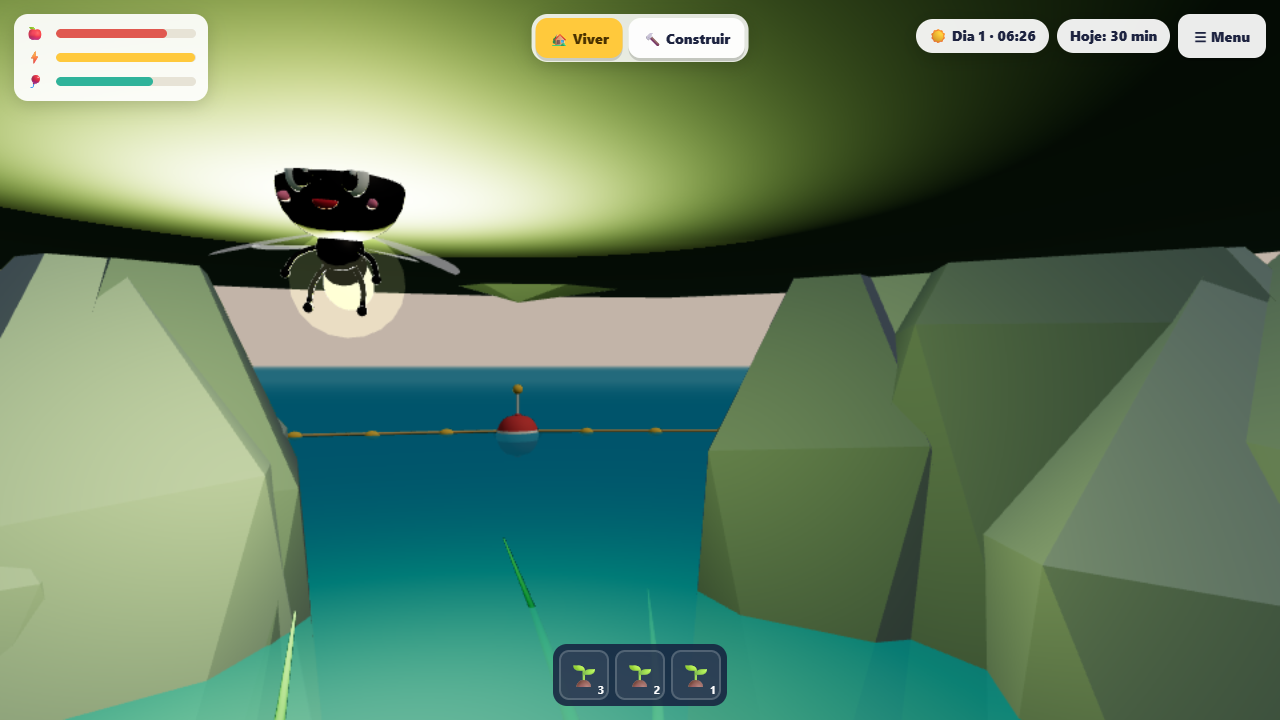
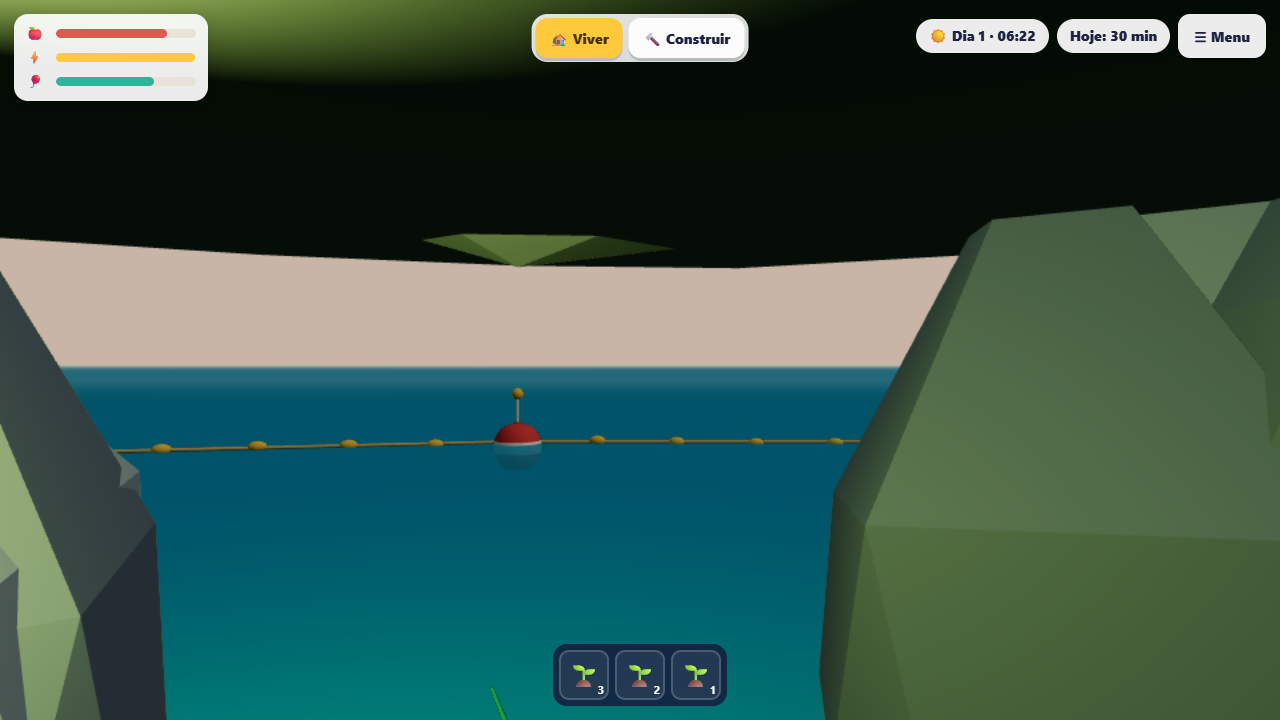
fix(arquipelago): enquadra a câmera sob o teto da caverna

diff --git a/packages/arquipelago/tests/camera-sob-teto.test.ts b/packages/arquipelago/tests/camera-sob-teto.test.ts
@@ -1,0 +1,78 @@
+import { beforeAll, describe, expect, test } from 'bun:test'
+import { createRequire } from 'node:module'
+import type { RapierContext } from '@react-three/rapier'
+import { FOLGA_DA_CAMERA, GRUA_DA_CAMERA, RAIO_DA_SONDA_DA_CAMERA } from '../src/mundo/medidas'
+import { desvioVerticalDaCamera } from '../src/sistemas/camera'
+
+const require = createRequire(import.meta.url)
+const R: RapierContext['rapier'] = require(
+  require.resolve('@dimforge/rapier3d-compat', { paths: [require.resolve('@react-three/rapier')] }),
+)
+beforeAll(async () => {
+  await R.init()
+})
+
+const escolher = (angulo: number, medir: (angulo: number) => number) =>
+  desvioVerticalDaCamera(
+    angulo,
+    -Math.atan2(FOLGA_DA_CAMERA, 9),
+    medir,
+    GRUA_DA_CAMERA.subidas,
+    GRUA_DA_CAMERA.inclinacaoMaxima,
+    GRUA_DA_CAMERA.ganhoMinimo,
+  )
+
+describe('enquadramento sob um teto baixo', () => {
+  test('a sonda real se afasta do teto quando começa tangenciando a face inferior', () => {
+    const world = new R.World({ x: 0, y: 0, z: 0 })
+    try {
+      world.createCollider(R.ColliderDesc.cuboid(3.5, 0.475, 3.5).setTranslation(0, 2.175, 0))
+      world.step()
+      const esfera = new R.Ball(RAIO_DA_SONDA_DA_CAMERA)
+      const medir = (angulo: number) => {
+        const hit = world.castShape(
+          { x: 0, y: 1.25, z: 0 },
+          { x: 0, y: 0, z: 0, w: 1 },
+          { x: 0, y: Math.sin(angulo), z: Math.cos(angulo) },
+          esfera,
+          0,
+          9 + FOLGA_DA_CAMERA,
+          false,
+        )
+        return hit ? hit.time_of_impact - FOLGA_DA_CAMERA : 9
+      }
+      expect(medir(0.6)).toBeLessThan(0.1)
+      let ajuste = 0
+      for (let i = 0; i < 150; i++)
+        ajuste += (escolher(0.6, medir) - ajuste) * (1 - Math.exp(-6 / 60))
+      expect(medir(0.6 + ajuste)).toBeGreaterThan(2)
+    } finally {
+      world.free()
+    }
+  })
+  test('passa abaixo do teto em vez de comprimir a câmera no corpo', () => {
+    // O alvo e a esfera somam a altura do teto do Recife. Descer afasta a sonda do contato.
+    const espacoVertical = 1.7 - 1.25 - RAIO_DA_SONDA_DA_CAMERA
+    const medir = (angulo: number) =>
+      angulo < 0 ? 9 : Math.min(9, espacoVertical / Math.sin(angulo) - FOLGA_DA_CAMERA)
+    const pedido = 0.6
+    expect(medir(pedido)).toBeLessThan(0.1)
+    const corrigido = pedido + escolher(pedido, medir)
+    expect(corrigido).toBeCloseTo(-Math.atan2(FOLGA_DA_CAMERA, 9))
+    expect(medir(corrigido)).toBe(9)
+  })
+
+  test('uma parede baixa continua pedindo subida quando ali há mais espaço', () => {
+    const pedido = 0.3
+    const medir = (angulo: number) => (angulo >= 0.7 ? 9 : 2)
+    expect(escolher(pedido, medir)).toBeCloseTo(0.45)
+  })
+
+  test('sem bloqueio preserva a inclinação escolhida pela pessoa', () => {
+    expect(escolher(0.6, () => 9)).toBe(0)
+  })
+
+  test('diferença menor que a folga de ganho não causa troca de ângulo', () => {
+    expect(escolher(0.6, (angulo) => (angulo < 0 ? 2.4 : 2))).toBe(0)
+  })
+})

diff --git a/packages/arquipelago/src/personagem/camera.tsx b/packages/arquipelago/src/personagem/camera.tsx
@@ -21,6 +21,7 @@ import {
   VOLTA_DA_CAMERA,
 } from '../mundo/medidas'
 import {
+  desvioVerticalDaCamera,
   distanciaDaCamera,
   giroMaisCurto,
   limitarPosicaoDaCamera,
@@ -488,7 +489,7 @@ export function Camera() {
     }
     // Tapada de perto (o tronco atrás, no deque): primeiro a câmera gira para o lado livre, como
     // nos jogos de terceira pessoa (o controle gira junto, a frente continua sendo a da tela);
-    // sem lado livre, sobe por cima do ombro. Os dois andam aos poucos, e o raio final é o da
+    // sem lado livre, compara passar por baixo com subir por cima do ombro. A mudança é suave e o raio final é o da
     // posição em que a câmera está de verdade.
     let alvoDaSubida = 0
     const tapada = !dentro && lancar(inclinacao) < dist * GRUA_DA_CAMERA.tapada
@@ -508,14 +509,15 @@ export function Camera() {
       }
     }
     if (tapada && !girou) {
-      let melhor = lancar(inclinacao)
-      for (const extra of GRUA_DA_CAMERA.subidas) {
-        const livreAqui = lancar(Math.min(inclinacao + extra, GRUA_DA_CAMERA.inclinacaoMaxima))
-        if (livreAqui > melhor + GRUA_DA_CAMERA.ganhoMinimo) {
-          melhor = livreAqui
-          alvoDaSubida = extra
-        }
-      }
+      alvoDaSubida = desvioVerticalDaCamera(
+        inclinacao,
+        // A mesma folga da sonda abaixo do alvo: evita tangenciar o teto no limite do float.
+        -Math.atan2(FOLGA_DA_CAMERA, dist),
+        lancar,
+        GRUA_DA_CAMERA.subidas,
+        GRUA_DA_CAMERA.inclinacaoMaxima,
+        GRUA_DA_CAMERA.ganhoMinimo,
+      )
     }
     subida.current += (alvoDaSubida - subida.current) * k
     inclinacao = Math.min(

diff --git a/packages/arquipelago/src/sistemas/camera.ts b/packages/arquipelago/src/sistemas/camera.ts
@@ -44,6 +44,37 @@ export function pesoNoAlto(alturaAcimaDoChao: number, limite: number): number {
   return Math.max(0, Math.min(1, (alturaAcimaDoChao - limite * 0.6) / (limite * 0.4)))
 }
 
+/**
+ * Sem saída para os lados, compara passar por baixo com subir por cima do obstáculo.
+ * Só troca com ganho suficiente de espaço. O retorno é um desvio do ângulo escolhido pela pessoa;
+ * não altera a preferência e pode ser suavizado enquanto entra ou sai de um teto baixo.
+ */
+export function desvioVerticalDaCamera(
+  inclinacao: number,
+  inclinacaoBaixa: number,
+  medir: (angulo: number) => number,
+  subidas: readonly number[],
+  maxima: number,
+  ganhoMinimo: number,
+): number {
+  let melhor = medir(inclinacao)
+  let desvio = 0
+  const baixo = medir(inclinacaoBaixa)
+  if (baixo > melhor + ganhoMinimo) {
+    melhor = baixo
+    desvio = inclinacaoBaixa - inclinacao
+  }
+  for (const extra of subidas) {
+    const angulo = Math.min(inclinacao + extra, maxima)
+    const livre = medir(angulo)
+    if (livre > melhor + ganhoMinimo) {
+      melhor = livre
+      desvio = angulo - inclinacao
+    }
+  }
+  return desvio
+}
+
 /** A distância pedida pela pinça: abrir os dedos aproxima, fechar afasta (na mesma proporção). */
 export function zoomDaPinca(
   distanciaNoComeco: number,

diff --git a/packages/arquipelago/playground/verificar-recife-browser.ts b/packages/arquipelago/playground/verificar-recife-browser.ts
@@ -18,7 +18,7 @@ import { CORPO } from '../src/sistemas/corpo'
 import { CINTURA } from '../src/sistemas/modos/chao'
 
 type P = { x: number; y: number; z: number }
-type Desenho = { posicao: P; ilhasCompletas: number; modo: string; noChao: boolean }
+type Desenho = { posicao: P; camera: P; ilhasCompletas: number; modo: string; noChao: boolean }
 const port = process.env.ARQUIPELAGO_TEST_PORT
   ? Number(process.env.ARQUIPELAGO_TEST_PORT)
   : await new Promise<number>((resolve, reject) => {
@@ -209,7 +209,19 @@ try {
       await page.keyboard.up('KeyW')
     }
     console.log(`${tipo}: entrou na caverna nadando`, await ler())
+    // A câmera precisa mostrar o corpo por inteiro, sem ser empurrada para dentro da cabeça.
+    await page.waitForTimeout(2500)
     await page.screenshot({ path: path.join(prints, `recife-${tipo}-caverna.png`) })
+    const naCaverna = await ler()
+    if (
+      !naCaverna ||
+      Math.hypot(
+        naCaverna.camera.x - naCaverna.posicao.x,
+        naCaverna.camera.z - naCaverna.posicao.z,
+      ) < 2
+    ) {
+      throw new Error('A câmera entrou no avatar sob o teto da caverna')
+    }
 
     const casa = local('casa-mare')
     const mare = mundo(casa)

diff --git a/docs/qa/2026-10-29-recife/README.md b/docs/qa/2026-10-29-recife/README.md
@@ -34,12 +34,12 @@ Na raiz:
 bun run lint
 ```
 
-- Testes: 767 passaram, 1 pulado, nenhuma falha. O teste pulado requer Postgres local descartável.
+- Testes finais: 772 passaram, 1 pulado, nenhuma falha. O teste pulado requer Postgres local descartável.
   Inclui a lagoa nova, as faces coplanares, os colisores, a Maré e a liberação do GLB.
 - A primeira execução concorrente com o navegador teve dois estouros de 5 segundos em testes
   antigos do Bosque e da Vila. A repetição completa, sem o navegador concorrente, passou em 24,51 s.
 - Lint da raiz: terminou com código 0, sem erros; avisos e informações existentes no repositório.
-- Typecheck: código 0. Biome nos 13 arquivos de código desta tarefa: sem ajustes ou diagnósticos.
+- Typecheck final: código 0. Biome dos quatro arquivos de código da correção: sem diagnósticos.
 - O roteiro final do navegador terminou com código 0 nos dois tamanhos, incluindo sair e voltar.
 
 ## Prints
@@ -48,24 +48,24 @@ bun run lint
 | --- | --- | --- |
 | Chegada | [Ver](recife-computador-chegada.png) | [Ver](recife-celular-chegada.png) |
 | Cais | [Ver](recife-computador-cais.png) | [Ver](recife-celular-cais.png) |
-| Caverna | [Ver](recife-computador-caverna.png) | [Ver](recife-celular-caverna.png) |
+| Caverna corrigida | [Ver](recife-computador-caverna-corrigida.png) | [Ver](recife-celular-caverna-corrigida.png) |
 | Maré | [Ver](recife-computador-mare.png) | [Ver](recife-celular-mare.png) |
 | Lagoa | [Ver](recife-computador-lagoa.png) | [Ver](recife-celular-lagoa.png) |
 
-## Achado que depende da outra sessão
+## Correção do enquadramento
 
-A câmera fica muito próxima do avatar ao passar sob o teto baixo da caverna. O teste comprova
-a passagem pela boca, mas o print registra a limitação de visibilidade. Não foram retiradas
-colisões nem alterado `src/personagem/camera.tsx`, reservado expressamente à outra sessão.
-O ajuste do enquadramento e a validação em celular físico continuam pendentes. A lagoa não tem
-pendência de Blender; nenhum GLB foi regenerado nesta tarefa.
+O teste adicional reproduziu a câmera dentro do avatar sob o teto. A medição da sonda mostrou
+que tanto subir quanto ficar exatamente na horizontal tocavam o teto, enquanto descer pela
+folga existente deixava 9 unidades livres. A regra agora compara essa saída baixa com as subidas,
+mantendo a sonda e a suavização. A conferência passou nos dois tamanhos, exigindo pelo menos
+2 unidades de afastamento horizontal do avatar na caverna. Os prints antigos preservam a falha;
+os links da tabela mostram a correção. Nenhuma colisão foi removida, nenhum GLB foi regenerado.
 
 ## Nota para a página de andamento
 
 A página não foi alterada, pois esta sessão não tem acesso. Texto para fase3-01:
 “Recife completo ligado, com lagoa para nadar, cais, Quadro das Cores e apresentação da Maré.
-Conferido no computador e no celular emulado. Falta ajustar a câmera sob o teto da caverna e
-conferir em celular físico.”
+Câmera ajustada para passar sob o teto da caverna. Conferido no computador e no celular emulado.”
 
 Texto para a parte do Recife de aj-ligar-10:
 “A caverna fora da ilha leve entra na espera pelo modelo e na área segura de nado.

diff --git a/docs/plans/2026-10-29-arquipelago-recife.md b/docs/plans/2026-10-29-arquipelago-recife.md
@@ -24,10 +24,15 @@ A primeira leitura encontrou uma lagoa decorativa sem bacia. A pendência foi re
 
 Navio, labirinto, mergulho e plataformas das Nuvens ficam fora desta fase. Não há pedido de modelo adicional.
 
-## Achado para a sessão da câmera
+## Câmera sob o teto da caverna
 
-A passagem nadando pela boca funciona, mas o teto baixo faz a câmera encostar demais no avatar
-dentro da caverna. O print `docs/qa/2026-10-29-recife/recife-computador-caverna.png` registra o
-enquadramento padrão. Não retirar colisão do teto ou das paredes para esconder o problema.
-Ajustar o enquadramento de espaços baixos na sessão responsável por `src/personagem/camera.tsx`,
-arquivo expressamente reservado nesta tarefa. A conferência em celular físico também fica pendente.
+O achado foi corrigido: além de subir, a câmera compara uma saída abaixo do teto, usando a mesma
+sonda e preservando todas as colisões. A saída baixa mira uma folga de 0,35 abaixo do alvo, já
+definida em `FOLGA_DA_CAMERA`; a posição horizontal exata tangenciava a face inferior do teto.
+O desvio só muda com ganho superior a 0,5, como a grua existente, e é suavizado ao entrar e sair.
+Não altera a inclinação escolhida pela pessoa. A integração no controlador ficou restrita à
+escolha desse desvio, com regra pura em `sistemas/camera.ts` e testes em `camera-sob-teto.test.ts`.
+
+O roteiro de navegador reproduziu a falha antes da correção e passou depois no computador e
+no celular emulado. Os prints `recife-computador-caverna-corrigida.png` e
+`recife-celular-caverna-corrigida.png`, na pasta de QA, mostram o resultado.

diff --git a/docs/arquipelago-regras.md b/docs/arquipelago-regras.md
@@ -2535,9 +2535,10 @@ Testes puros e dos GLBs: `tests/luneta.test.ts`. Visita real no playground:
 - Navio, labirinto e mergulho ficam para a fase3-02. Não foi necessário gerar arte nesta
   integração. O teste dos lagos confere fundo e rampa; o roteiro de navegador confere ponte,
   cais, caverna, lagoa e conversa no playground, com `?posicao=4`.
-- Achado visual: a câmera padrão chega perto demais do avatar sob o teto da caverna. A passagem
-  funciona, mas o enquadramento precisa de ajuste pela sessão da câmera. Celular físico ainda
-  precisa de conferência.
+- Sob o teto, a câmera compara uma posição baixa com as posições acima do ombro. Usa a folga
+  existente de 0,35 abaixo do alvo, só troca com ganho de espaço maior que 0,5 e suaviza o desvio.
+  A sonda continua impedindo atravessar paredes e teto. A preferência de inclinação não muda.
+  O teste de navegador confere o enquadramento no computador e no celular emulado.
 
 Plano: `docs/plans/2026-10-29-arquipelago-recife.md`. Evidências e limites da conferência:
 `docs/qa/2026-10-29-recife/README.md`.

diff --git a/packages/arquipelago/CLAUDE.md b/packages/arquipelago/CLAUDE.md
@@ -670,8 +670,10 @@ Plano e decisões propostas: `docs/plans/2026-10-29-arquipelago-recife.md`. Test
 O nado faz parte do modo `chao`: a conferência verifica a cintura na superfície e o corpo
 sem apoio, em vez de procurar um modo chamado `nadar`.
 
-Achado visual registrado no plano: o teto baixo da caverna aproxima demais a câmera do avatar.
-O ajuste do enquadramento fica com a sessão responsável por `src/personagem/camera.tsx`.
+Sob tetos baixos, `desvioVerticalDaCamera` também compara passar abaixo do alvo pela folga de
+`FOLGA_DA_CAMERA`, com a sonda real e o ganho mínimo da grua. A posição horizontal exata pode
+tangenciar o teto; não retirar colisores para resolver isso. O desvio entra e sai suavemente,
+sem alterar a preferência. Testes em `camera-sob-teto.test.ts` e no roteiro do Recife.
 
 ## Rodar
 
